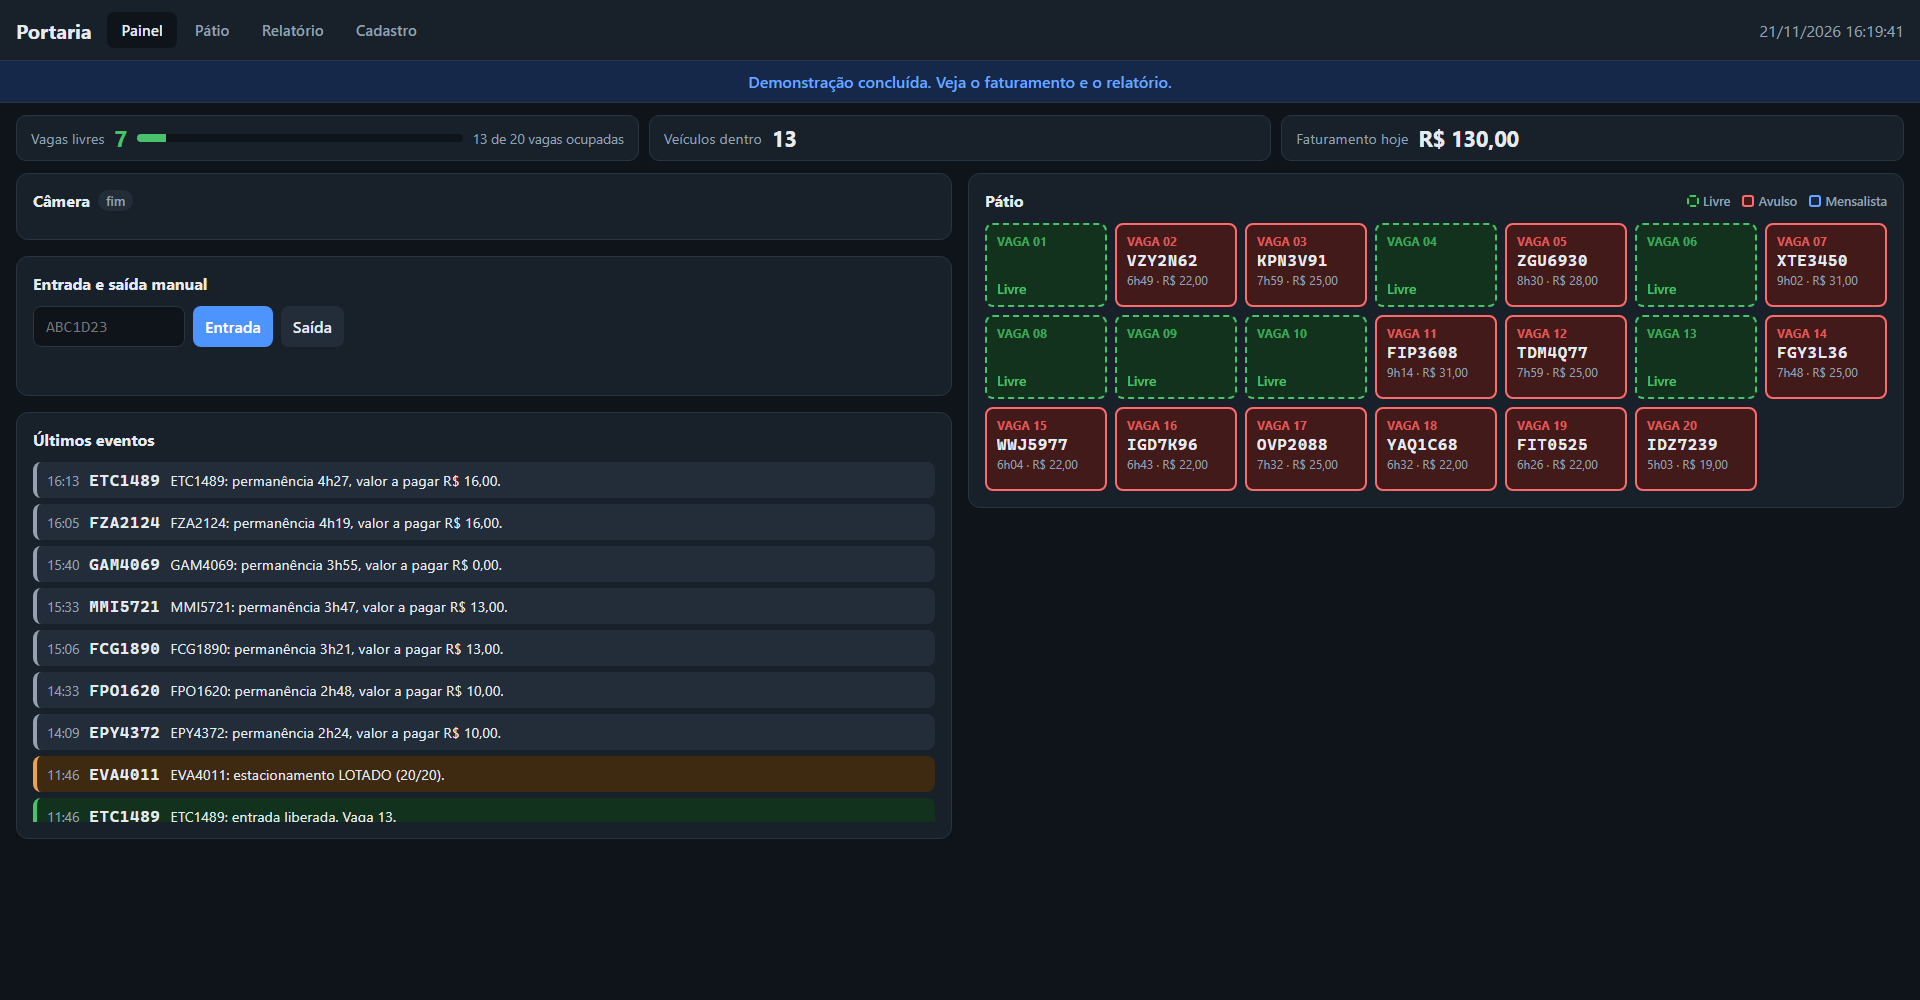
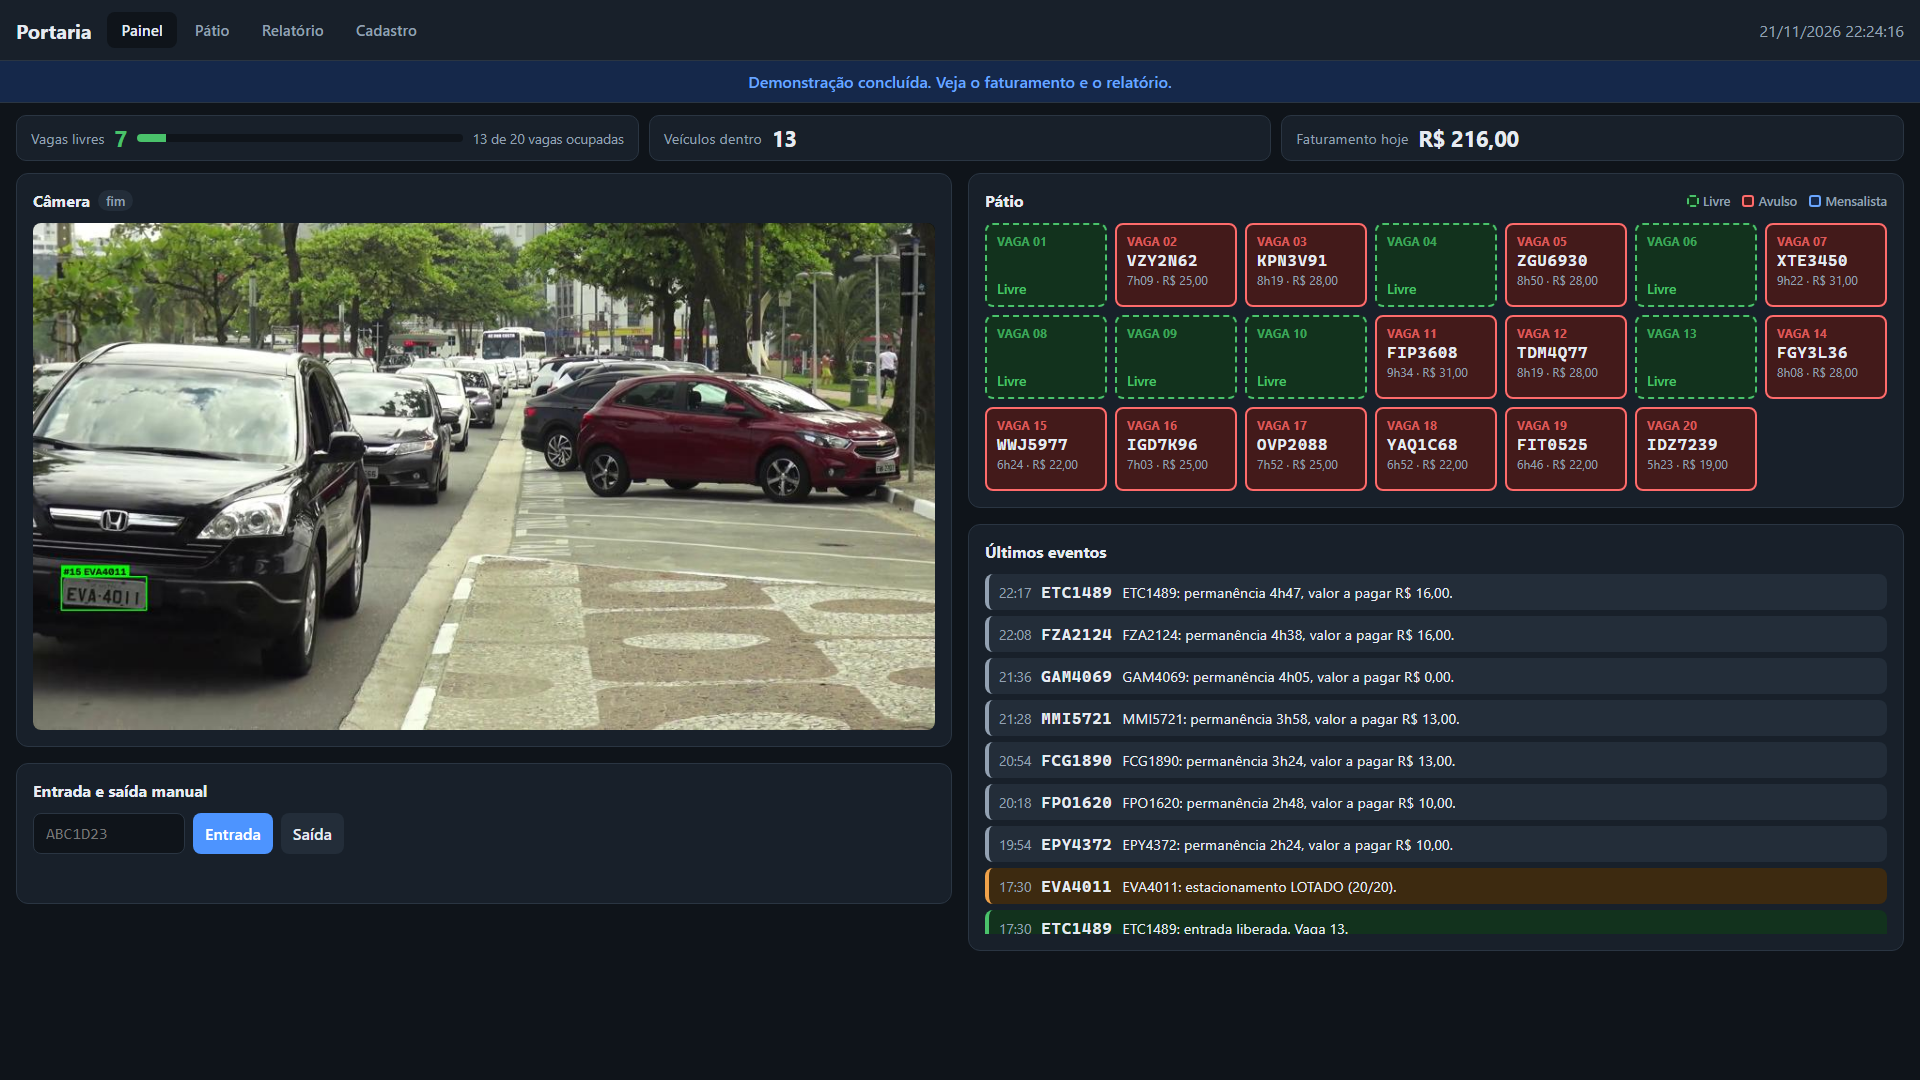
melhora o README com resumo, diagrama e novas imagens

diff --git a/README.md b/README.md
@@ -1,10 +1,31 @@
 # Leitor de Placas
 
-Sistema de leitura automática de placas brasileiras (formatos antigo e Mercosul) para a portaria de um **estacionamento**. Ele lê a placa pela câmera, registra entrada e saída, ocupa e libera vagas, calcula o valor a pagar e avisa a portaria sobre veículos bloqueados ou pátio lotado. Tudo roda num computador comum, só no processador, sem placa de vídeo.
+![Python 3.11+](https://img.shields.io/badge/python-3.11%2B-3776AB?logo=python&logoColor=white)
+![Licença MIT](https://img.shields.io/badge/licen%C3%A7a-MIT-green)
+![Testes](https://img.shields.io/badge/testes-pytest-0A9EDC?logo=pytest&logoColor=white)
+![Roda só na CPU](https://img.shields.io/badge/roda%20s%C3%B3%20na-CPU-6E40C9)
 
-![Painel da portaria ao fim da demonstração: indicadores no topo, entrada manual e últimos eventos à esquerda e pátio com as vagas livres e ocupadas à direita](docs/painel.png)
+Sistema de leitura automática de placas brasileiras (formatos antigo e Mercosul) para a portaria de um **estacionamento**. A câmera lê a placa, o sistema registra entrada e saída, ocupa e libera vagas, calcula o valor a pagar e avisa a portaria sobre veículos bloqueados ou pátio lotado. Tudo roda num computador comum, só no processador, sem placa de vídeo e sem internet.
+
+![Painel da portaria: vídeo da câmera com a placa marcada, indicadores de vagas e faturamento no topo, desenho do pátio com vagas livres em verde e ocupadas em vermelho, e a lista dos últimos eventos com os valores pagos](docs/painel.png)
+
+| 98,7% | 18 de 19 | 0 | 132 |
+|:---:|:---:|:---:|:---:|
+| de precisão nas leituras aceitas | placas do gabarito lidas certo | carros registrados em duplicidade | testes automatizados |
 
 Projeto desenvolvido em etapas, do zero. O histórico de commits mostra a evolução.
+
+## Sumário
+
+- [O que ele faz](#o-que-ele-faz)
+- [Demonstração rápida](#demonstração-rápida)
+- [Como funciona](#como-funciona)
+- [Resultados medidos](#resultados-medidos)
+- [Decisões técnicas](#decisões-técnicas)
+- [Como instalar](#como-instalar)
+- [Como usar](#como-usar)
+- [Privacidade (LGPD)](#privacidade-lgpd)
+- [Créditos e licenças](#créditos-e-licenças)
 
 ## O que ele faz
 
@@ -32,6 +53,77 @@ Abra http://localhost:8000. O roteiro, de cerca de 1 minuto e meio:
 4. **Câmera da saída** (os mesmos 30 s): com o relógio acelerado (1 s = 5 min), cada carro fica um tempo diferente e paga um valor diferente. As vagas são liberadas e o faturamento sobe.
 
 A demonstração usa um banco próprio (`data/demo.db`), recriado a cada execução, e não mexe no banco de verdade. As placas do histórico são inventadas.
+
+## Como funciona
+
+```mermaid
+flowchart LR
+    A[Câmera] --> B["Detecção<br/>YOLOv9"]
+    B --> C["OCR<br/>caractere a caractere"]
+    C --> D["Regras da placa<br/>antiga ou Mercosul"]
+    D --> E["Rastreamento<br/>e votação"]
+    E --> F["Regras do<br/>estacionamento"]
+    F --> G[("Banco<br/>SQLite")]
+    F --> H["Painel<br/>web"]
+```
+
+1. **Detecção**: um modelo YOLOv9 encontra a placa no quadro e devolve a caixa e a confiança.
+2. **OCR**: o recorte da placa é lido caractere a caractere, cada um com a sua confiança.
+3. **Regras da placa**: o texto tem que seguir o formato antigo (`AAA9999`) ou o Mercosul (`AAA9A99`). Onde só pode haver número, um "O" vira "0", e vice-versa.
+4. **Rastreamento e votação**: o mesmo carro aparece em dezenas de quadros. O sistema liga a placa de um quadro ao seguinte e, quando o carro sai da tela, fica com a leitura mais votada.
+5. **Regras do estacionamento**: decide se libera, barra (bloqueado) ou avisa que lotou, escolhe a vaga e, na saída, calcula o valor.
+
+![O recorte da placa GAM4069 ampliado e, embaixo, cada caractere lido pelo sistema com a sua confiança, todos em 100%, e a conclusão: placa GAM4069, formato antigo](docs/leitura.png)
+
+| Módulo | Função |
+|---|---|
+| `leitor/placa.py` | Valida o formato e corrige confusões de OCR pela posição. |
+| `leitor/deteccao.py` | Encontra as placas no quadro (caixa e confiança). |
+| `leitor/ocr.py` | Lê os caracteres do recorte, com confiança por caractere. |
+| `leitor/medicao.py` | Compara as leituras com um gabarito para escolher os limites. |
+| `leitor/rastreamento.py` | Liga a placa entre quadros (IoU ou distância) e escolhe a leitura mais votada. |
+| `leitor/motor.py` | Junta tudo para cada quadro. É usado pelo painel e pela linha de comando. |
+| `leitor/banco.py` | SQLite: veículos cadastrados e acessos (entrada, saída, vaga, valor). |
+| `leitor/regras.py` | Valor a pagar e decisão na entrada. São funções puras, fáceis de testar. |
+| `leitor/estacionamento.py` | Regras + banco: entrada com vaga, saída com valor, relatórios. |
+| `leitor/camera.py` | Leitura em thread, quadro mais recente, reconexão automática. |
+| `leitor/web/` | Painel web (FastAPI + HTML/CSS/JS sem frameworks). |
+| `leitor/demo.py` | Banco e roteiro da demonstração. |
+
+**Tecnologias:** Python, OpenCV, ONNX Runtime, open-image-models (YOLOv9), fast-plate-ocr, SQLite, FastAPI, HTML/CSS/JavaScript e pytest.
+
+## Resultados medidos
+
+### Leitura
+
+Vídeo de teste, 1 a cada 10 quadros (316 quadros, 694 leituras). O gabarito tem 19 placas conferidas à mão no vídeo.
+
+| Filtro | Leituras aceitas | Precisão | Placas lidas certo |
+|---|---|---|---|
+| Nenhum | 603 | 68,3% | 19 de 19 |
+| Confiança ≥ 0,80 | 354 | 86,4% | 19 de 19 |
+| Confiança ≥ 0,80 e largura ≥ 60 px | 238 | **98,7%** | **18 de 19** |
+
+**Limites escolhidos: confiança mínima de 0,80 e placa com pelo menos 60 px de largura.**
+
+- Só a confiança não basta. Placas de longe (cerca de 50 px) são lidas errado *com confiança alta*: um "W" vira "V" com 97% de confiança. O tamanho da placa separa esses casos muito melhor.
+- Abaixo de 60 px, as leituras erradas disparam (40 com largura de 50 px, contra 3 com 60 px). Acima de 60 px, a precisão quase não melhora e o sistema começa a perder placas (16 de 19 com 70 px).
+- Acima de 0,80 de confiança, a precisão sobe pouco e uma placa a mais deixa de ser lida.
+- A placa perdida é a de um carro estacionado ao fundo, que nunca passa de 55 px. Ela não seria lida com segurança nem por uma pessoa.
+
+### Um carro, um registro
+
+No vídeo inteiro: **17 registros, nenhum duplicado**. Foram 16 placas certas e 1 errada: FPO1620 no lugar de FPD1620, porque o OCR confunde D com O de forma sistemática nessa placa e a votação não corrige um erro que se repete. Das 19 placas do gabarito, 2 ficaram sem registro porque nunca apareceram grandes o bastante para uma leitura confiável.
+
+## Decisões técnicas
+
+- **Limites escolhidos por medição, não por intuição.** O gabarito mostrou que o tamanho da placa separa leituras ruins melhor que a confiança do OCR (veja acima).
+- **Votação ponderada.** Cada leitura confiável vota com peso igual à sua confiança. Isso corrige erros aleatórios. Erros sistemáticos, como o D↔O da FPD1620, continuam aparecendo e estão documentados.
+- **Sempre o quadro mais recente.** A câmera é lida numa thread separada que descarta quadros atrasados. Se o processamento ficar lento, o sistema perde quadros, mas não acumula atraso.
+- **Regras como funções puras.** O cálculo do valor e a decisão na entrada não dependem de banco nem de câmera, por isso são testados com tabelas de casos.
+- **Dinheiro em centavos.** Os valores são inteiros, para não acumular erro de arredondamento.
+- **Cancela fechada com alerta.** Veículo bloqueado ou pátio lotado não entram sozinhos. O operador pode liberar pelo painel, e fica registrado.
+- **Demonstração reproduzível.** No modo demo, o vídeo é lido quadro a quadro, então o resultado não muda se o computador estiver ocupado.
 
 ## Como instalar
 
@@ -68,6 +160,8 @@ python -m leitor.web --camera-env --host 0.0.0.0              # libera para o ce
 Para usar uma câmera IP, copie `.env.example` para `.env` e preencha o endereço RTSP com usuário e senha. O `.env` fica fora do Git, e a senha aparece como `***` nos logs e no painel. Use `--tipo saida` se a câmera filmar a saída.
 
 Para ver a reconexão automática sem desligar o cabo de uma câmera, `--simular-queda 300` derruba a conexão a cada 300 quadros. O painel mostra "reconectando…" e volta sozinho.
+
+Em telas que não mostram o vídeo contínuo (MJPEG), abra o painel com `?imagem` no endereço (por exemplo, `http://localhost:8000/?imagem`). Ele passa a mostrar a foto mais recente da câmera, atualizada a cada segundo. A foto também fica disponível em `/quadro.jpg`.
 
 ### Estacionamento pela linha de comando
 
@@ -112,13 +206,13 @@ Na entrada, um veículo **bloqueado** ou um avulso com o pátio **lotado** gera 
 Estas ferramentas mostram cada parte do sistema separada:
 
 ```
-python -m leitor.video videos/pexels_fabio_reis_de_abreu.mp4                  # 1. abre o vídeo e desenha
-python -m leitor.deteccao videos/pexels_fabio_reis_de_abreu.mp4 --quadro 150  # 3. marca as placas
-python -m leitor.ocr videos/pexels_fabio_reis_de_abreu.mp4 --quadro 1200      # 4. lê os caracteres
-python -m leitor.medicao coletar videos/pexels_fabio_reis_de_abreu.mp4        # 5. coleta leituras
-python -m leitor.medicao conferir videos/pexels_fabio_reis_de_abreu.mp4       # 5. confere quadro a quadro
+python -m leitor.video videos/pexels_fabio_reis_de_abreu.mp4                  # abre o vídeo e desenha
+python -m leitor.deteccao videos/pexels_fabio_reis_de_abreu.mp4 --quadro 150  # marca as placas
+python -m leitor.ocr videos/pexels_fabio_reis_de_abreu.mp4 --quadro 1200      # lê os caracteres
+python -m leitor.medicao coletar videos/pexels_fabio_reis_de_abreu.mp4        # coleta leituras
+python -m leitor.medicao conferir videos/pexels_fabio_reis_de_abreu.mp4       # confere quadro a quadro
 python -m leitor.medicao avaliar capturas/leituras_pexels_fabio_reis_de_abreu.csv data/gabarito_pexels_fabio_reis_de_abreu.csv --limite 0.80 --largura-minima 60
-python -m leitor.processar videos/pexels_fabio_reis_de_abreu.mp4              # 6. um registro por carro
+python -m leitor.processar videos/pexels_fabio_reis_de_abreu.mp4              # um registro por carro
 ```
 
 Rodar os testes:
@@ -126,51 +220,6 @@ Rodar os testes:
 ```
 pytest
 ```
-
-## Como funciona
-
-```
-câmera ──► detecção (YOLOv9) ──► OCR ──► regras da placa ──► rastreamento + votação ──► regras do estacionamento ──► banco + painel
-           open-image-models    fast-plate-ocr  antigo/Mercosul    um carro = um registro       vaga, valor, alertas     SQLite / FastAPI
-```
-
-| Módulo | Função |
-|---|---|
-| `leitor/placa.py` | Valida o formato (antigo `AAA9999` ou Mercosul `AAA9A99`) e corrige confusões de OCR pela posição. |
-| `leitor/deteccao.py` | Encontra as placas no quadro (caixa e confiança). |
-| `leitor/ocr.py` | Lê os caracteres do recorte, com confiança por caractere. |
-| `leitor/medicao.py` | Compara as leituras com um gabarito para escolher os limites. |
-| `leitor/rastreamento.py` | Liga a placa entre quadros (IoU ou distância) e escolhe a leitura mais votada. |
-| `leitor/motor.py` | Junta tudo para cada quadro. É usado pelo painel e pela linha de comando. |
-| `leitor/banco.py` | SQLite: veículos cadastrados e acessos (entrada, saída, vaga, valor). |
-| `leitor/regras.py` | Valor a pagar e decisão na entrada. São funções puras, fáceis de testar. |
-| `leitor/estacionamento.py` | Regras + banco: entrada com vaga, saída com valor, relatórios. |
-| `leitor/camera.py` | Leitura em thread, quadro mais recente, reconexão automática. |
-| `leitor/web/` | Painel web (FastAPI + HTML/CSS/JS sem frameworks). |
-| `leitor/demo.py` | Banco e roteiro da demonstração. |
-
-## Resultados medidos
-
-### Leitura (Etapa 5)
-
-Vídeo de teste, 1 a cada 10 quadros (316 quadros, 694 leituras). O gabarito tem 19 placas conferidas à mão no vídeo.
-
-| Filtro | Leituras aceitas | Precisão | Placas lidas certo |
-|---|---|---|---|
-| Nenhum | 603 | 68,3% | 19 de 19 |
-| Confiança ≥ 0,80 | 354 | 86,4% | 19 de 19 |
-| Confiança ≥ 0,80 e largura ≥ 60 px | 238 | **98,7%** | **18 de 19** |
-
-**Limites escolhidos: confiança mínima de 0,80 e placa com pelo menos 60 px de largura.**
-
-- Só a confiança não basta. Placas de longe (cerca de 50 px) são lidas errado *com confiança alta*: um "W" vira "V" com 97% de confiança. O tamanho da placa separa esses casos muito melhor.
-- Abaixo de 60 px, as leituras erradas disparam (40 com largura de 50 px, contra 3 com 60 px). Acima de 60 px, a precisão quase não melhora e o sistema começa a perder placas (16 de 19 com 70 px).
-- Acima de 0,80 de confiança, a precisão sobe pouco e uma placa a mais deixa de ser lida.
-- A placa perdida é a de um carro estacionado ao fundo, que nunca passa de 55 px. Ela não seria lida com segurança nem por uma pessoa.
-
-### Um carro, um registro (Etapa 6)
-
-No vídeo inteiro: **17 registros, nenhum duplicado**. Foram 16 placas certas e 1 errada: FPO1620 no lugar de FPD1620, porque o OCR confunde D com O de forma sistemática nessa placa e a votação não corrige um erro que se repete. Das 19 placas do gabarito, 2 ficaram sem registro porque nunca apareceram grandes o bastante para uma leitura confiável.
 
 ## Privacidade (LGPD)
 
@@ -189,7 +238,7 @@ Placa de veículo é **dado pessoal**: com ela, dá para chegar ao dono. O proje
 
 ### Vídeo de teste
 
-Vídeo obtido no [Pexels](https://www.pexels.com) e usado sob a [licença do Pexels](https://www.pexels.com/license/):
+Vídeo obtido no [Pexels](https://www.pexels.com) e usado sob a [licença do Pexels](https://www.pexels.com/license/). As imagens do painel e da leitura neste README foram geradas a partir dele.
 
 - Vídeo de **Fábio Reis de Abreu (Portuga)**, no Pexels (`videos/pexels_fabio_reis_de_abreu.mp4`)
 
@@ -205,6 +254,10 @@ Vídeo obtido no [Pexels](https://www.pexels.com) e usado sob a [licença do Pex
 - [Uvicorn](https://github.com/encode/uvicorn), licença BSD-3-Clause.
 - [HTTPX](https://github.com/encode/httpx), licença BSD-3-Clause (usada nos testes).
 - [pytest](https://github.com/pytest-dev/pytest), licença MIT.
+
+## Autor
+
+Feito por **Elivan Lima Junior** ([@ElivanLimaJunior](https://github.com/ElivanLimaJunior)).
 
 ## Licença
 
